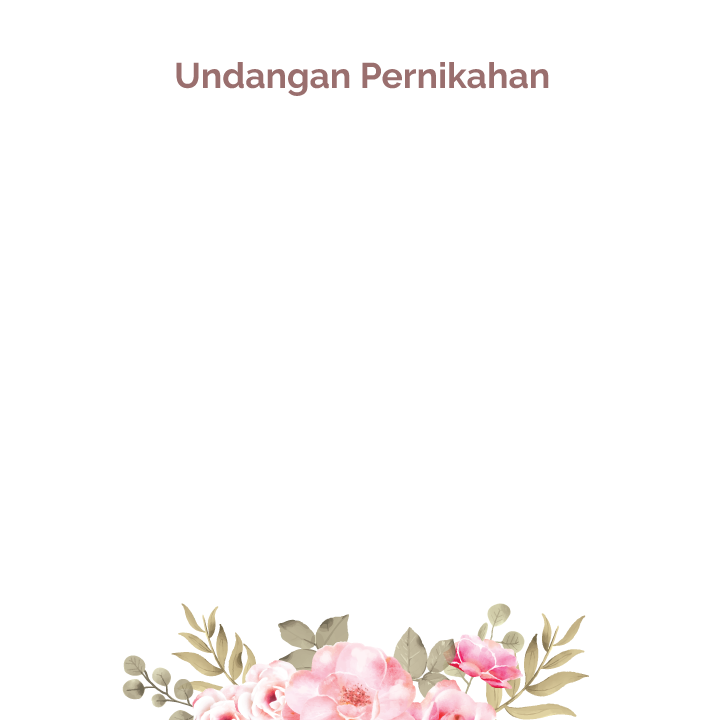
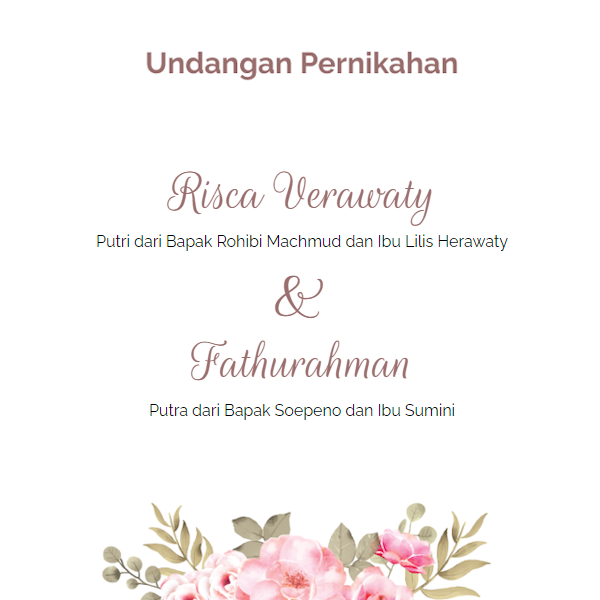
revisi 2

diff --git a/nikah/index.html b/nikah/index.html
@@ -10,7 +10,7 @@
     <meta property="og:description" content="Undangan Pernikahan Risca & Ipat - Minggu, 16 Juli 2023 di RM Manjabal, Katulampa, Bogor">
     <meta property="og:locale" content="id_ID" />
     <!--meta property="og:image" content="https://fathurahman.github.io/nikah/image/thumbnail.png"-->
-	<meta property="og:image" content="https://iili.io/HilUWbe.md.jpg">
+	<meta property="og:image" content="https://iili.io/Hil6eZF.md.png">
     <meta property="og:url" content="https://fathurahman.github.io/nikah/index.html">
 	<meta property="og:type" content="article" />
     <!-- Bulma Version 0.8.x-->
@@ -272,7 +272,7 @@
         </div>
         <div class="space40px"></div>
         <div class="main-content has-text-centered" data-aos="fade-up" data-aos-easing="linear">
-          <a href="https://calendar.google.com/event?action=TEMPLATE&amp;tmeid=NGgzdW00NG84dXFwMzcwNXYxbGliNGxzaWggZGFlbmdkb2FuZ0Bt&amp;tmsrc=Ipatdoang%40gmail.com" target="_blank" class="button has-tooltip btn-cta" data-tooltip="Add to Calendar" target="_blank" data-aos="zoom-in">
+          <a href="https://calendar.google.com/calendar/event?action=TEMPLATE&tmeid=MWs2OTVrcjk4YmV2M2tuMW1qcGw2anQ2NG0gaXBhdC5ib2dvckBt&tmsrc=ipat.bogor%40gmail.com" target="_blank" class="button has-tooltip btn-cta" data-tooltip="Add to Calendar" target="_blank" data-aos="zoom-in">
             <i class="far fa-calendar-plus"></i>
             &nbsp;&nbsp;Google Calendar
           </a>
@@ -312,45 +312,21 @@
       <section class="section-light regular-section is-fullheight" id="tentang-Risca-Ipat">
         <div class="container">
           <div class="columns is-multiline">          
-            <!--div class="column is-12 prolog">
-              <h1 class="title has-text-centered section-title" data-aos="fade-up" data-aos-easing="linear">Konfirmasi Kehadiran</h1>
-            </div-->
             <div class="column is-12 prolog has-text-centered" data-aos="fade-up" data-aos-easing="linear">
               <p class="h2 subtitle">
                 Merupakan suatu kehormatan dan kebahagiaan bagi kami
                 <br>
-                apabila Bapak/Ibu/Saudara/Saudari berkenan hadir
-                memberikan doa restu.
+                apabila Bapak/Ibu Saudara/Saudari berkenan hadir memberikan doa restu.
                 <br>
-                <br>
-                Jika bisa hadir kami tunggu konfirmasinya, 
-                <br>
-                <br>
-                Jika tidak memungkinkan untuk hadir di pernikahan kami,tidak mengapa,
-                <br> 
-                semoga bisa berjumpa di lain kesempatan
-                <br>
-                </p>
-     
+				<br>
+              </p>  
+			  <div class="h2 subtitle">Hormat Kami,</div>
+			  <div class="nama-lengkap-mini">Risca Verawaty & Fathurahman</div>			  			  
               <div class="space40px"></div>
-
               <!--div class="space40px"></div-->
               <div data-aos="fade-up" data-aos-easing="linear">
                 <img src="image/divider-leaves.png" class="divider has-text-centered" alt="~~~">
               </div>
-              <div class="space40px"></div>
-              <!--p class="h2 subtitle" data-aos="fade-up" data-aos-easing="linear">
-                Kami yang berbahagia,
-                <br>
-                <a class="instagram":" href="https://instagram.com/nengchely" target="_blank" alt="Instagram Risca">
-                  <i class="fab fa-instagram"></i> @nengchely
-                </a>
-                &nbsp
-                <a class="instagram" href="https://instagram.com/Ipatdoang" target="_blank" alt="Instagram Ipat">
-                  <i class="fab fa-instagram"></i> @Ipatdoang
-                </a>
-              </p-->
-
             </div>
          </div>
         </div>

diff --git a/nikah/css/menikah.css b/nikah/css/menikah.css
@@ -306,6 +306,15 @@ html {
   line-height: 3.7rem;
 }
 
+.nama-lengkap-mini {
+  font-family: 'Rouge Script', sans-serif;
+  color: #996E6D;
+  font-size: 2.5rem;
+  letter-spacing: 0px;
+  padding-bottom: 6px;
+  line-height: 3.7rem;
+}
+
 .ampersand {
 font-size: 5rem;
 font-family: 'Rouge Script', sans-serif;
@@ -320,7 +329,7 @@ vertical-align: middle;
 }
 
 .waktu {
-  font-size: 1.4rem;
+  font-size: 1.5rem;
   font-family: 'Raleway', sans-serif;
 }
 
